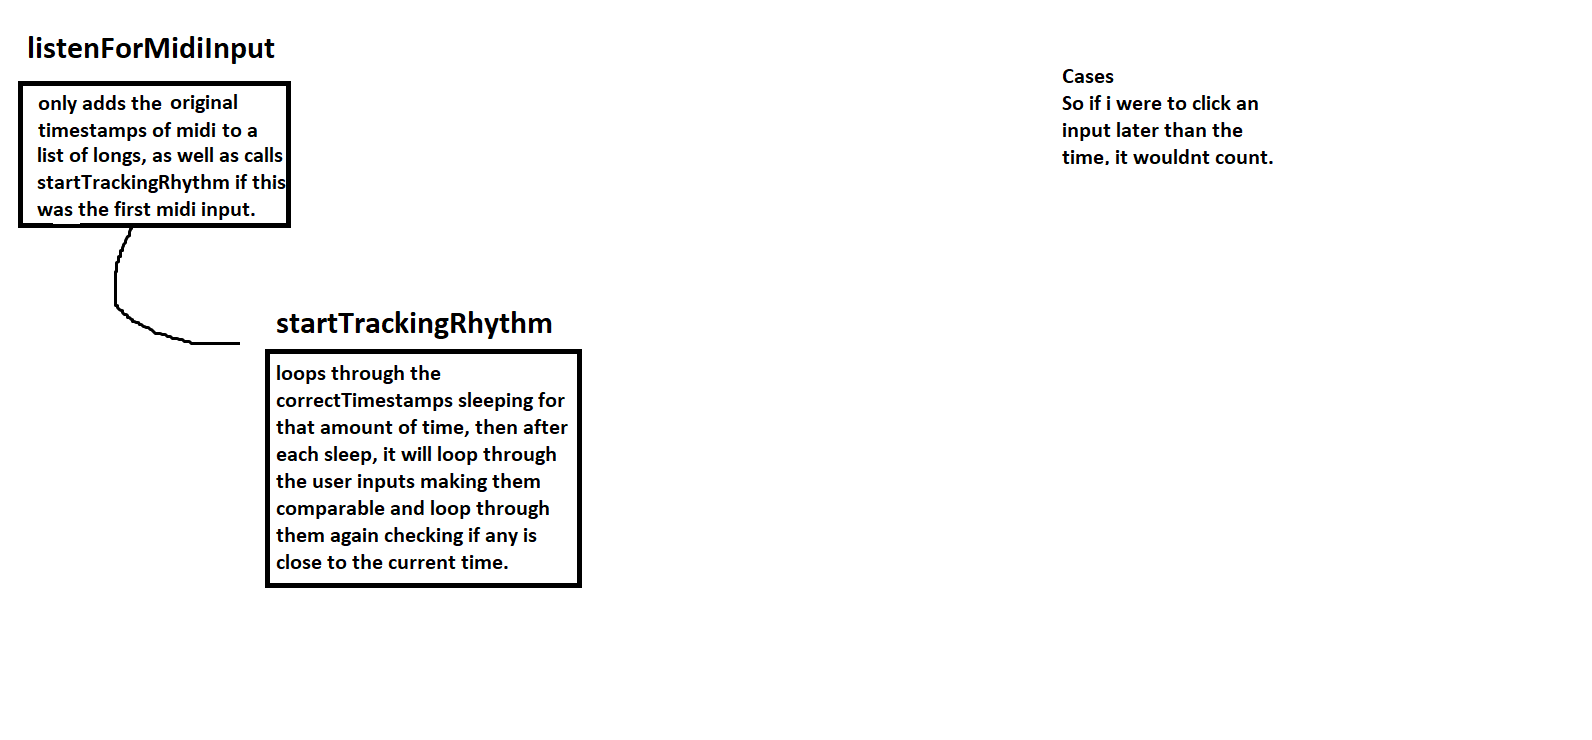
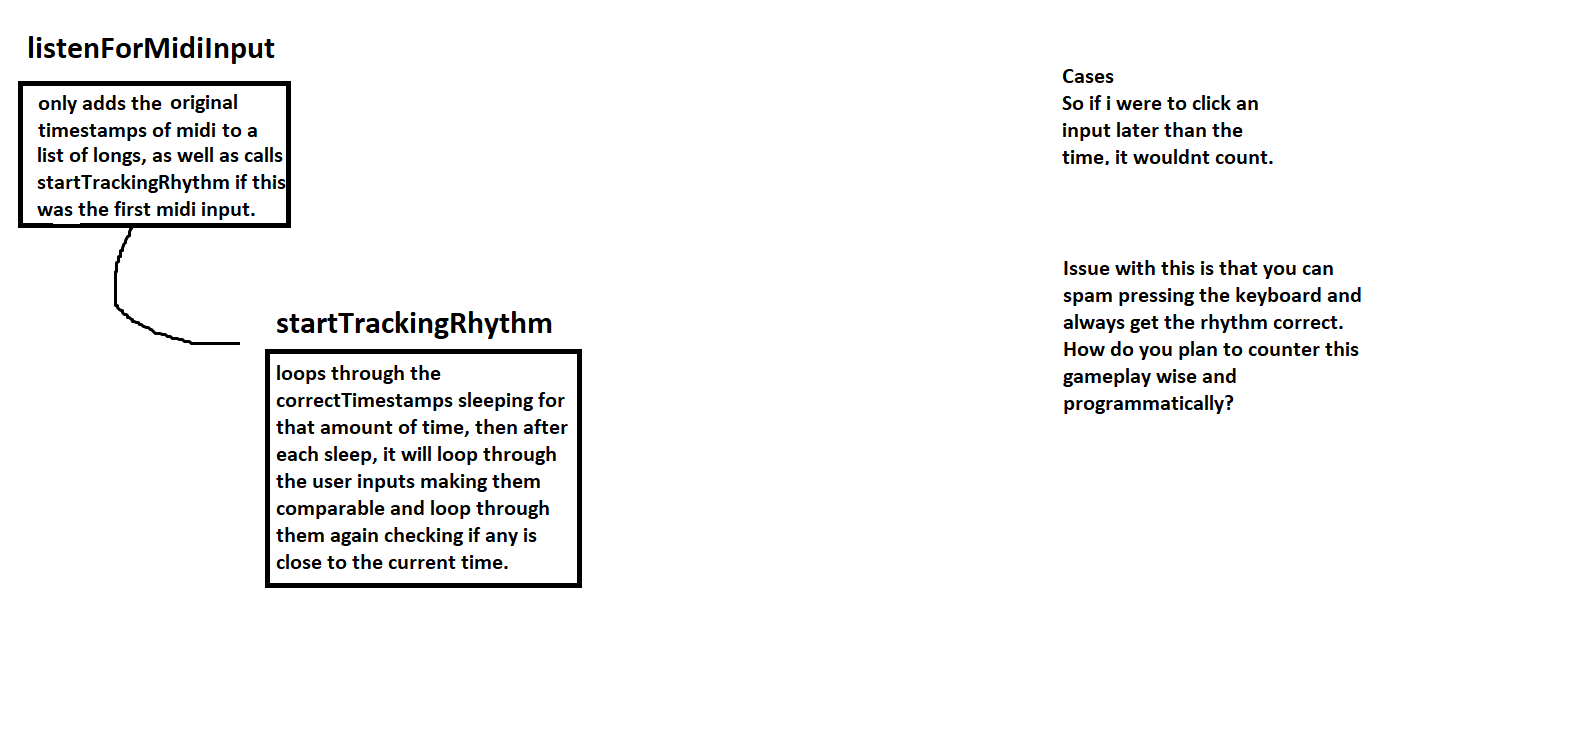
Update

Changed region(s): [[0.6464, 0.3419, 0.8618, 0.5595]]

diff --git a/src/main/java/com/example/piecepractice/piece_practice/PianoExercise.java b/src/main/java/com/example/piecepractice/piece_practice/PianoExercise.java
@@ -209,9 +209,6 @@ public class PianoExercise extends JPanel {
 	}
 
 	private void startTrackingRhythm(long firstBeat) {
-		// Make firstBeat comparable
-		firstBeat = firstBeat / 100;
-		
 		// Loop through the correct timestamps on beat comparing the user's rhythm to the correct one.
 		new Thread(new Runnable() {
 			@Override
@@ -220,16 +217,29 @@ public class PianoExercise extends JPanel {
 				for (int correct : correctNoteTimestamps) {
 					try {
 						// Calculate the wait duration based on the distance to the next note.
+						int precisionTolerance = 1000;
 						int waitFor = (correct - lastCorrect) / 10;
-						Thread.sleep(waitFor);
+						Thread.sleep(waitFor + precisionTolerance);
 						
-						// Here we will do what we need to do with the rhythm.
-						System.out.println("Value: " + correct + " " +  lastCorrect + " " + waitFor);
+						// Loop through user timestamps, making it comparable and comparing it to the current rhythm
+						boolean found = false;
+						for (long input : userInputs) {
+							int comparable = (int) (input - firstBeat) / 100;
+							System.out.println(comparable + " vs " + correct);
+							if (comparable > correct - precisionTolerance && comparable < correct + precisionTolerance) {
+								System.out.println("Rhythm correct");
+								found = true;
+								break;
+							}
+						}
+						if (found == false) {
+							System.out.println("Rhythm wrong");
+						}
+						System.out.println();
 						
 						// Update last correct to be our current correct timestamp
 						lastCorrect = correct;
 					} catch (InterruptedException e) {
-						// TODO Auto-generated catch block
 						e.printStackTrace();
 					}
 				}
